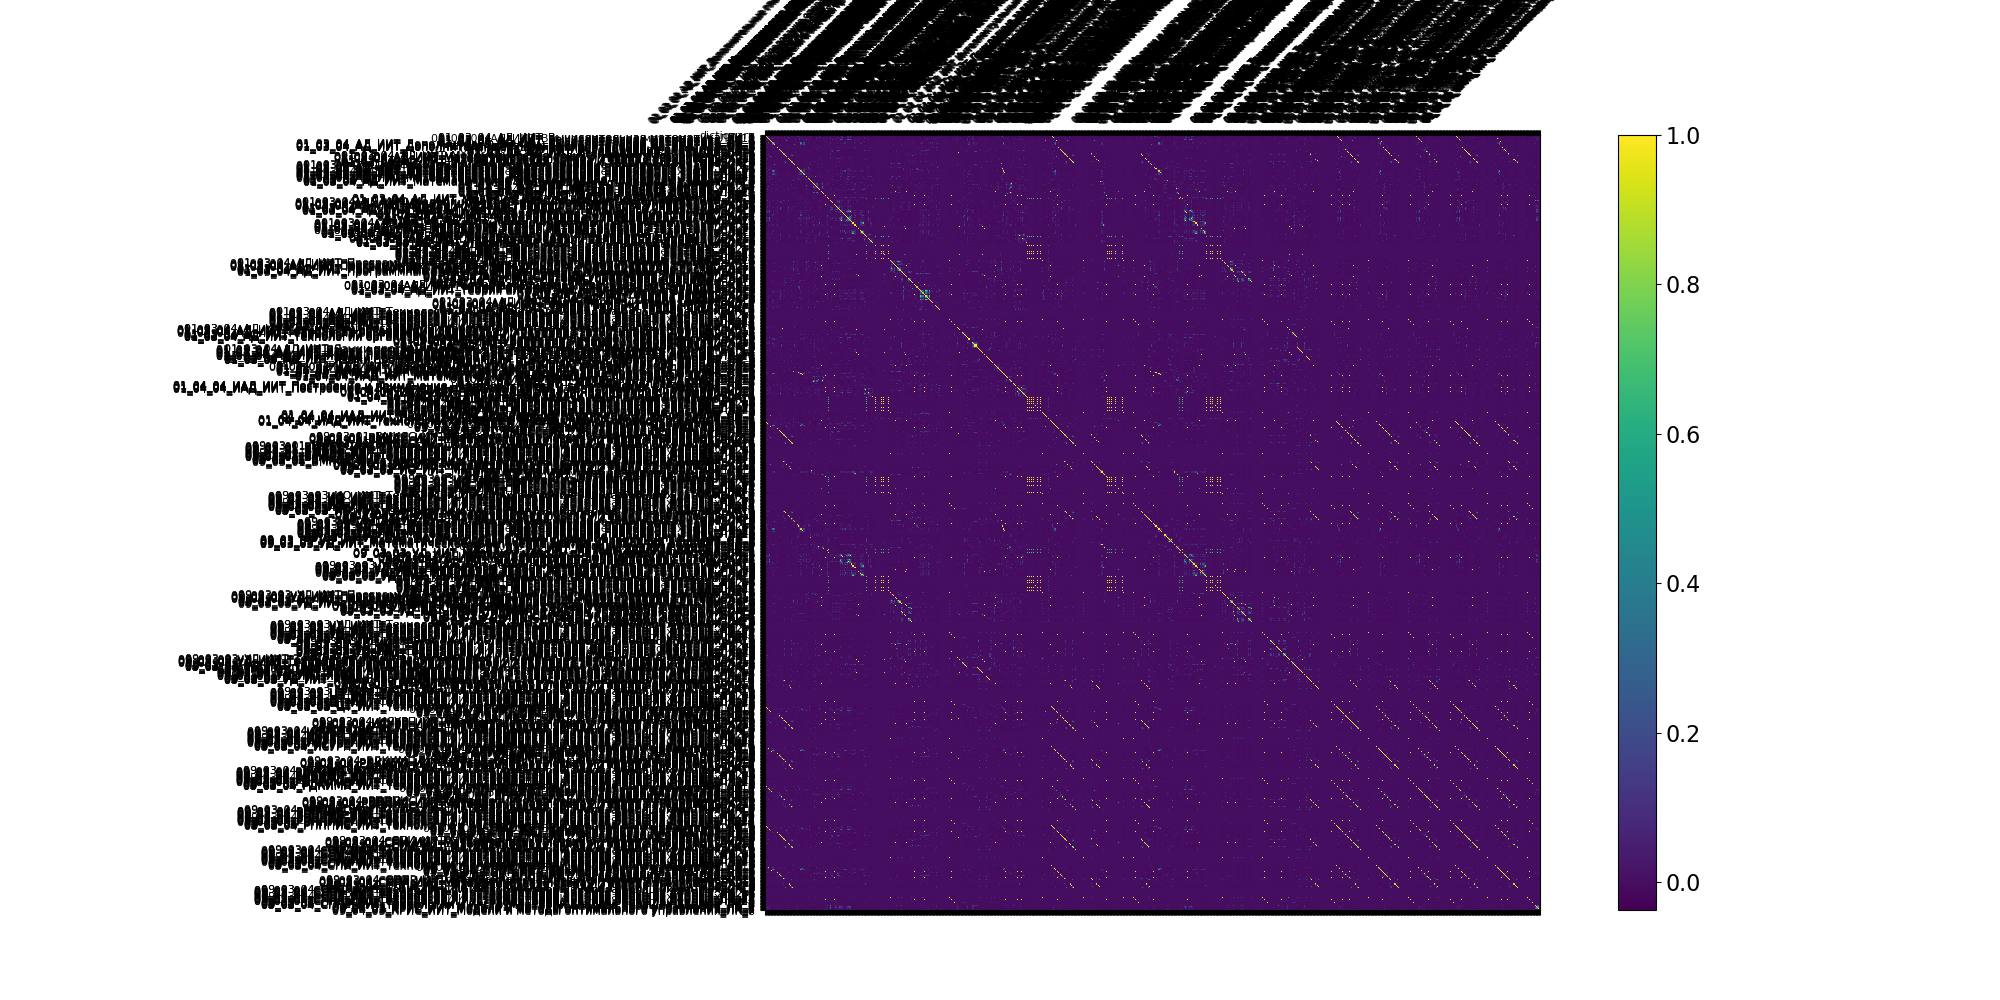
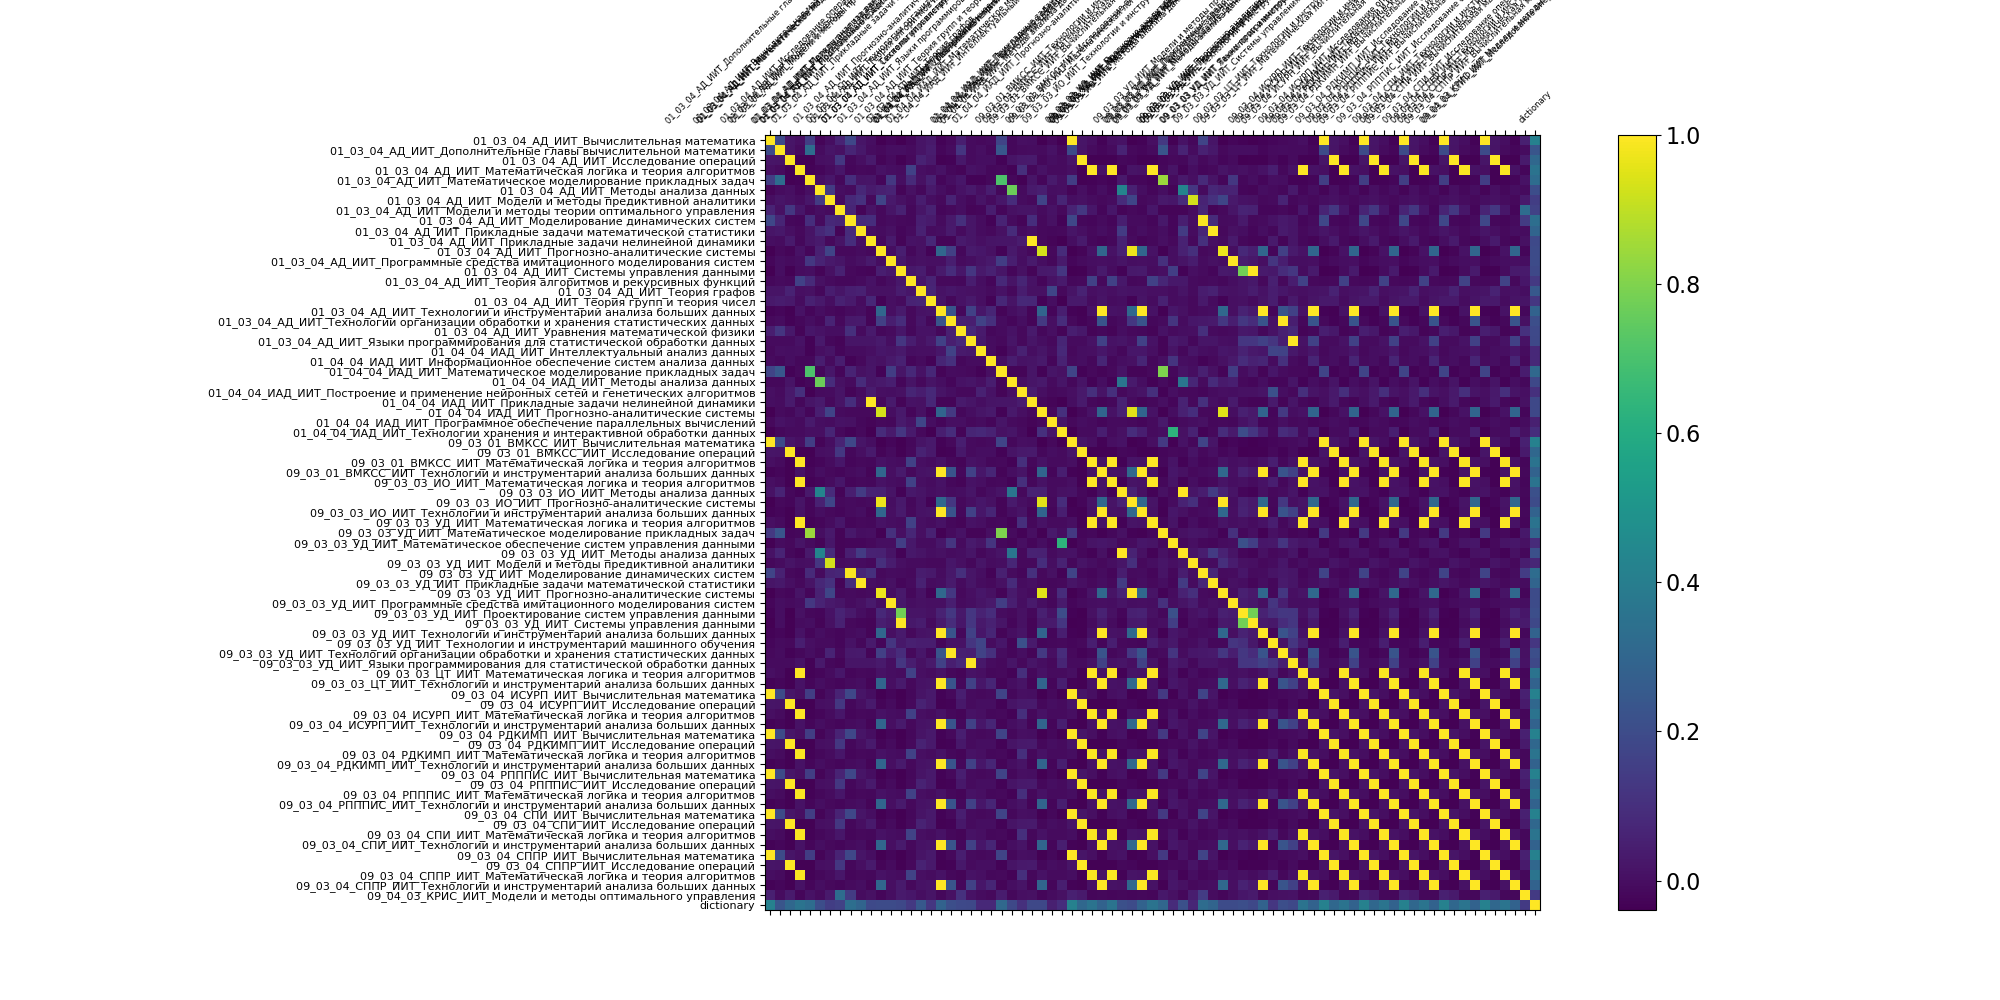
e

Changed region(s): [[0.093, 0.0, 0.775, 0.93]]

diff --git a/RPD_window.py b/RPD_window.py
@@ -11,43 +11,87 @@ class wnd:
         self.tkroot = Tk()
         
         # Элементы, которые работают как переменные
-        self.debug_lbl = Label(width=70, justify="left")
-        self.form_serv = Entry()
-        self.form_login = Entry()
-        self.form_pass = Entry()
-        self.lbl_dwnld_name = Label(wraplength=120, justify="left")
+        self.debug_lbl = Label(justify="left")
+        self.form_serv = Entry(width=20)
+        self.form_login = Entry(width=20)
+        self.form_pass = Entry(width=20)
+        self.filter_value = Entry(width=20)
+        self.lbl_dwnld_name = Label(
+            wraplength=120,
+            width=20,
+            justify="left",
+            borderwidth=1,
+            relief="solid")
+        self.lbl_dict_name = Label(
+            wraplength=120,
+            width=20,
+            justify="left",
+            borderwidth=1,
+            relief="solid")
+        self.group_check_value = BooleanVar(False)
         # Расположение и конфигурация
         self.setup()    
         
     def setup(self):
         self.tkroot.title('RPD')
         
-        self.debug_lbl.grid(row=0, column=0, columnspan=3)
+        self.debug_lbl.grid(row=0, column=0, columnspan=5)
         self.debug("РПД Обработчик")
         
-        lbl_serv = Label(text="Сервер")
+        lbl_serv = Label(text="Сервер", width=8)
         lbl_serv.grid(row=1, column=0)
         self.form_serv.grid(row=1, column=1)
         
-        lbl_login = Label(text="Логин")
+        lbl_login = Label(text="Логин", width=8)
         lbl_login.grid(row=2, column=0)
         self.form_login.grid(row=2, column=1)
         
-        lbl_pass = Label(text="Пароль")
+        lbl_pass = Label(text="Пароль", width=8)
         lbl_pass.grid(row=3, column=0)
         self.form_pass.grid(row=3, column=1)
         
-        btn_dwnld_slct = Button(text="Выбрать папку", command=self.get_folder)
-        btn_dwnld_slct.grid(row=4, column=0)
-        self.lbl_dwnld_name.grid(row=4, column=1)
+        btn_dwnld_slct = Button(
+            text="Выбрать папку РПД", 
+            width=20,
+            command=self.get_folder)
+        btn_dwnld_slct.grid(row=1, column=2)
+        self.lbl_dwnld_name.grid(row=1, column=3)
         
-        btn_dwnld = Button(text="Скачать РПД в папку", command=self.ftp_download)
-        btn_dwnld.grid(row=1, column=2)
-        btn_dwnld = Button(text="Сгенерировать словарь", command=self.process_neuro)
-        btn_dwnld.grid(row=2, column=2)
+        btn_dict_slct = Button(
+            text="Выбрать файл словаря",
+            width=20,
+            command=self.get_folder)
+        btn_dict_slct.grid(row=2, column=2)
+        self.lbl_dict_name.grid(row=2, column=3)
         
-        btn_anz = Button(text="Анализировать словарь", command=self.analyze)
-        btn_anz.grid(row=3, column=2)
+        lbl_filter = Label(text="Фильтр датасета", width=20)
+        lbl_filter.grid(row=3, column=2)
+        self.filter_value.grid(row=3, column=3)
+        
+        group_check = Checkbutton(
+            text='Группировать', 
+            variable=self.group_check_value, 
+            onvalue=True, 
+            offvalue=False)
+        group_check.grid(row=4, column=3)
+        
+        btn_dwnld = Button(
+            text="Скачать РПД в папку", 
+            width=20, 
+            command=self.ftp_download)
+        btn_dwnld.grid(row=1, column=4)
+        
+        btn_dwnld = Button(
+            text="Сгенерировать словарь", 
+            width=20, 
+            command=self.dictionary_gen)
+        btn_dwnld.grid(row=2, column=4)
+        
+        btn_anz = Button(
+            text="Анализировать словарь", 
+            width=20, 
+            command=self.analyze)
+        btn_anz.grid(row=3, column=4)
     
     def debug(self, text):
         # Показать в окне заданный текст
@@ -88,15 +132,21 @@ class wnd:
         else:
             self.debug("Не все параметры.")
     
-    def process_neuro(self):
-        # Значение папки по умолчанию
+    def dictionary_gen(self):
+        # Значения по умолчанию
         path = self.lbl_dwnld_name["text"]
         if path == "":
             self.lbl_dwnld_name.config(text = os.getcwd()+"\\"+'RPD_Chunk')
             path = self.lbl_dwnld_name["text"]
+            
+        dic_path = self.lbl_dict_name["text"]
+        if dic_path == "":
+            self.lbl_dict_name.config(text = 'dict.csv')
+            dic_path = self.lbl_dict_name["text"]
         
         # Главная процедура
         global_bag_table = {"dictionary": {}}
+        self.debug("Обработка...")
         for doc_name in os.listdir(path):
             doc = RPD_docprocessor.docload(path, doc_name)
             if doc:
@@ -111,17 +161,29 @@ class wnd:
                 global_bag_table = RPD_neuroling.dictionary_generator(global_bag_table, topics_wordbags, doc_param)
         self.debug("Генерация словаря завершена.")
         dictionary_dataframe = RPD_neuroling.convert_dict_dataframe(global_bag_table)
-        RPD_neuroling.csv_export(dictionary_dataframe)
+        RPD_neuroling.csv_export(dictionary_dataframe, dic_path)
         self.debug("Словарь экспортирован.")
         
     def analyze(self):
+        # Значения по умолчанию
+        dic_path = self.lbl_dict_name["text"]
+        if dic_path == "":
+            self.lbl_dict_name.config(text = 'dict.csv')
+            dic_path = self.lbl_dict_name["text"]
+            
+        filter = self.filter_value.get()
+        print(filter)
+        if filter == "":
+            filter = " "
+            
         self.debug("Импорт...")
-        table = RPD_neuroling.import_table()
+        table = RPD_neuroling.import_table(dic_path)
         self.debug("Анализ...")
-        
-        # table = RPD_neuroling.group_table(table)
-        RPD_neuroling.table_heatmap(table)
+        table = RPD_neuroling.compress_table(table)
+        if self.group_check_value.get():
+            table = RPD_neuroling.group_table(table)
         # RPD_neuroling.showtable(table)
+        RPD_neuroling.table_heatmap(table, filter)
         self.debug("Готово.")
         
     def run(self):

diff --git a/RPD_neuroling.py b/RPD_neuroling.py
@@ -60,48 +60,55 @@ def dictionary_generator(global_bag_table, topics_wordbags, doc_param):
         global_bag_table[topic_name] = topics_wordbags[topic_id]
     return global_bag_table
 
+# Редактор фреймов
 def showtable(table):
-    # Редактор фреймов
     pdshow(table)
 
+# Dictionary 2 Pandas
 def convert_dict_dataframe(table):
-    df = pd.DataFrame.from_dict(table, orient='columns').fillna(0).astype(int)
+    table = pd.DataFrame.from_dict(table, orient='columns').fillna(0).astype(int)
     # Сортировка по токенам
-    df = df.sort_index(axis=1)
+    table = table.sort_index(axis=1)
     # Сортировка по темам
-    df = df.sort_index(axis=0)
-    return df
+    table = table.sort_index(axis=0)
+    return table
 
-def csv_export(table):
-    # Экспорт
-    table.to_csv("dict.csv")
+# Экспорт
+def csv_export(table, dic_path):
+    table.to_csv(dic_path)
 
-def import_table():
-    # Импорт
-    df = pd.read_csv('dict.csv', index_col=[0])
+# Импорт
+def import_table(dic_path):
+    table = pd.read_csv(dic_path, index_col=[0])
     
     #Перемещение общего ряда вперед
-    df.insert(0, 'dictionary', df.pop('dictionary'))
-    df = df.sort_values(by=['dictionary'], ascending=False)
-    
+    table.insert(0, 'dictionary', table.pop('dictionary'))
+    table = table.sort_values(by=['dictionary'], ascending=False)
+    return table
+
+# Фильтры
+def compress_table(table):
     #Убрать стоп-слова (союзы и падежи)
     st_words = stopwords.words('russian')
-    df = df.drop(st_words, axis=0, errors="ignore")
+    table = table.drop(st_words, axis=0, errors="ignore")
     
     #Убрать N% слов из начала и слова реже чем N с конца
     cutoff_perc = 3
-    cut = len(df.index) // int(100/cutoff_perc)
-    df = df.iloc[cut: , :]
-    df = df[df['dictionary'] >= df['dictionary'][-cut]]
-    return df
+    cut = len(table.index) // int(100/cutoff_perc)
+    table = table.iloc[cut: , :]
+    table = table[table['dictionary'] >= table['dictionary'][-cut]]
+    return table
     
+# Просуммировать и сжать лекции одного документа
 def group_table(table):
     groups = [col.split("_ЛК")[0] for col in table.head()]
     table.columns = table.columns[:0].tolist() + groups
     table = table.groupby(table.columns, axis=1).sum()
     return table
-    
-def table_heatmap(table):
+
+# График матрицы коррелиации
+def table_heatmap(table, filt_exp):
+    table = table.filter(like=filt_exp, axis=1)
     table = table.corr(method ='pearson').fillna(0)
     fig = plt.figure("Correlation Matrix", figsize=(20, 10))
     plt.matshow(table, fignum=fig.number)
@@ -112,5 +119,5 @@ def table_heatmap(table):
     plt.xticks(values, labels, fontsize=6, rotation=45)
     cb = plt.colorbar()
     cb.ax.tick_params(labelsize=16)
-    plt.show()
+    plt.show(block=False)
     
